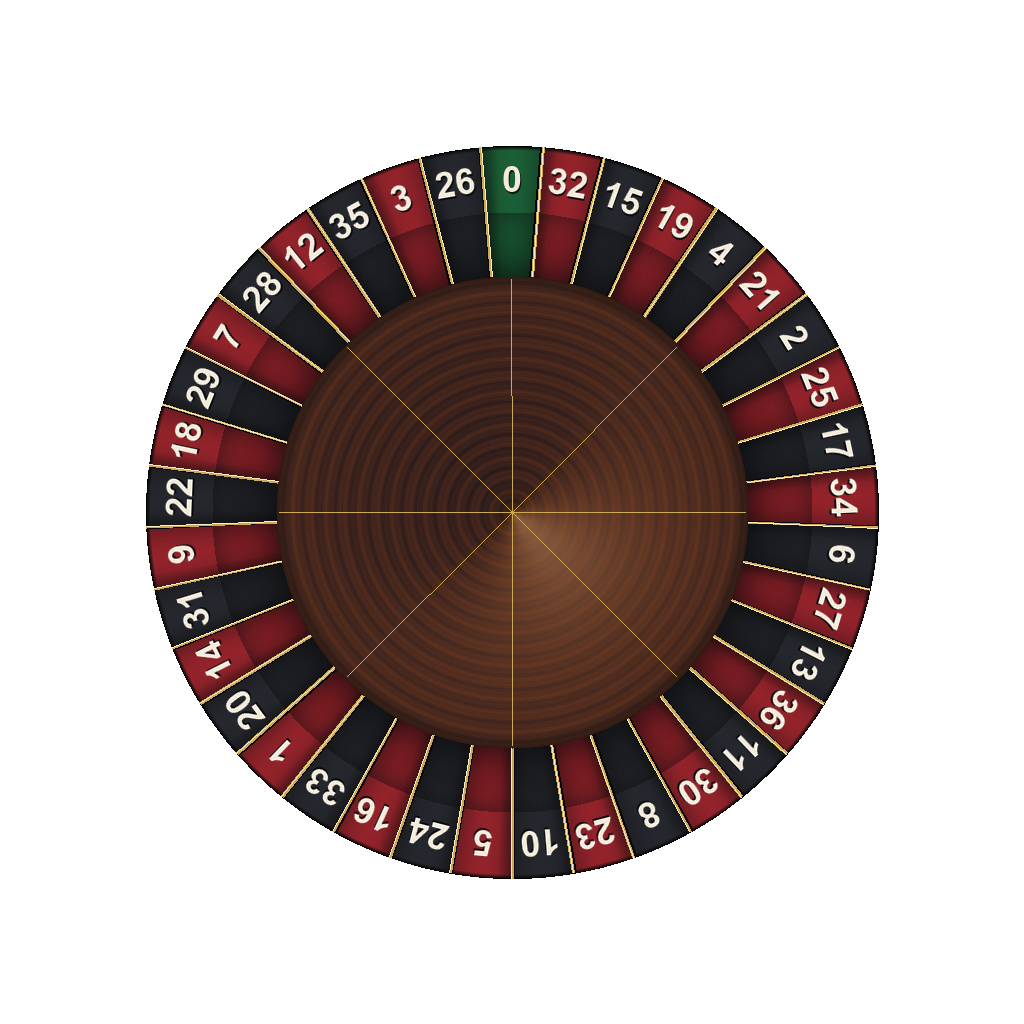
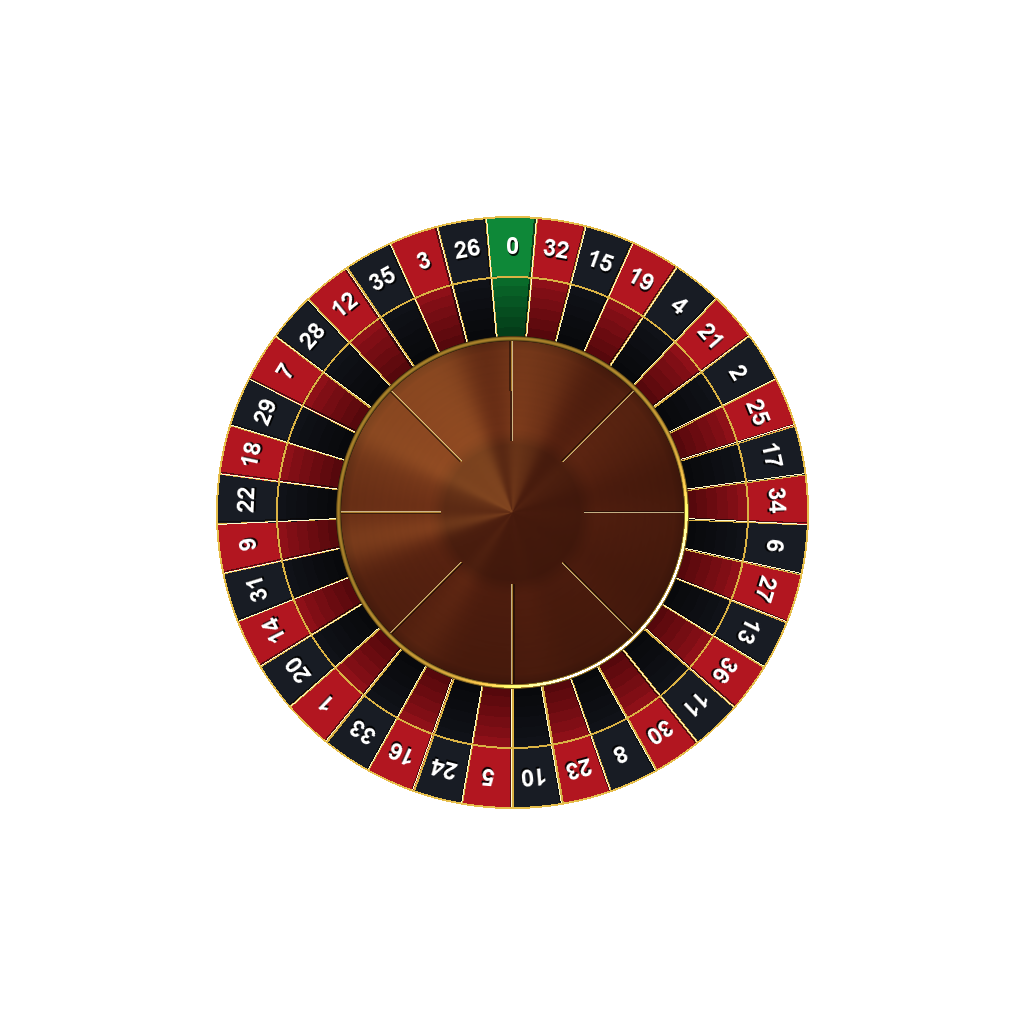
Rebuild center cone and pocket wells with photorealistic physically based rendering

diff --git a/roulette.js b/roulette.js
@@ -220,14 +220,14 @@ class LiveRouletteEngine {
     // 4. Physical Ball Orbit Decay (Calibrated to unified 3D wheel geometry)
     if (progress < 0.50) {
       // High-speed outer ball track orbit (in the recessed metallic bowl track)
-      this.ballRadiusRatio = 0.795;
+      this.ballRadiusRatio = 0.685;
       this.ballHeight = 0;
       this.ballAngle = freeBallAngle;
     } else if (progress < 0.76) {
       // Deflector diamond bounce zone (drops inward with realistic physical hops)
       const dropProgress = (progress - 0.50) / 0.26;
-      this.ballRadiusRatio = 0.795 - (0.795 - 0.66) * dropProgress;
-      this.ballHeight = Math.abs(Math.sin(dropProgress * Math.PI * 8)) * 6.5 * (1 - dropProgress);
+      this.ballRadiusRatio = 0.685 - (0.685 - 0.52) * dropProgress;
+      this.ballHeight = Math.abs(Math.sin(dropProgress * Math.PI * 8)) * 5.5 * (1 - dropProgress);
       this.ballAngle = freeBallAngle;
 
       if (timestamp - this.lastBounceTime > 110 && this.bounceCount < 14) {
@@ -240,8 +240,8 @@ class LiveRouletteEngine {
     } else if (progress < 0.92) {
       // Rattling across cast brass pocket frets
       const fretProgress = (progress - 0.76) / 0.16;
-      this.ballRadiusRatio = 0.66 - (0.66 - 0.53) * fretProgress;
-      this.ballHeight = Math.abs(Math.sin(fretProgress * Math.PI * 11)) * 3.2 * (1 - fretProgress);
+      this.ballRadiusRatio = 0.52 - (0.52 - 0.413) * fretProgress;
+      this.ballHeight = Math.abs(Math.sin(fretProgress * Math.PI * 11)) * 2.8 * (1 - fretProgress);
 
       const blend = Math.min(1, Math.max(0, (progress - 0.78) / 0.14));
       let diff = (targetPocketGlobalAngle - freeBallAngle) % (Math.PI * 2);
@@ -258,7 +258,7 @@ class LiveRouletteEngine {
       }
     } else {
       // Firmly settled in winning pocket (locked with zero relative slide)
-      this.ballRadiusRatio = 0.53;
+      this.ballRadiusRatio = 0.413;
       this.ballHeight = 0;
       this.ballAngle = targetPocketGlobalAngle;
     }
@@ -320,7 +320,7 @@ class LiveRouletteEngine {
     const dist = rFull * this.ballRadiusRatio;
     const bx = cx + Math.cos(this.ballAngle) * dist;
     const by = cy + Math.sin(this.ballAngle) * dist - this.ballHeight;
-    const ballSize = Math.max(5.5, Math.round(rFull * 0.030));
+    const ballSize = Math.max(4.8, Math.round(rFull * 0.024));
 
     ctx.save();
     
@@ -413,8 +413,8 @@ class LiveRouletteEngine {
 
     const a1 = -pocketAngleStep / 2;
     const a2 = pocketAngleStep / 2;
-    const rIn = rWheel * (236.0 / 512.0);
-    const rOut = rWheel * (366.0 / 512.0);
+    const rIn = rWheel * (174.0 / 512.0);
+    const rOut = rWheel * (296.0 / 512.0);
 
     // Soft warm amber illumination inside the pocket
     ctx.fillStyle = `rgba(235, 190, 85, ${0.25 + pulse * 0.22})`;
